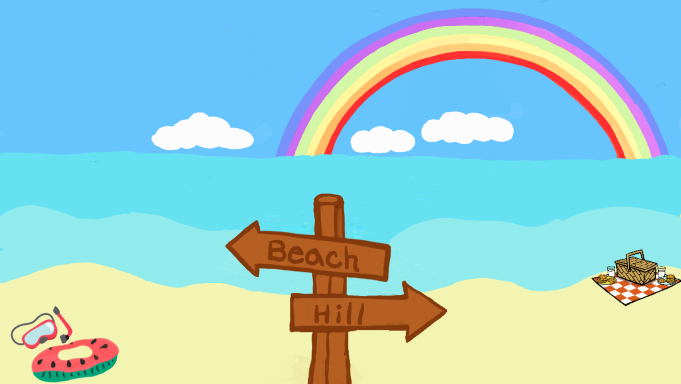
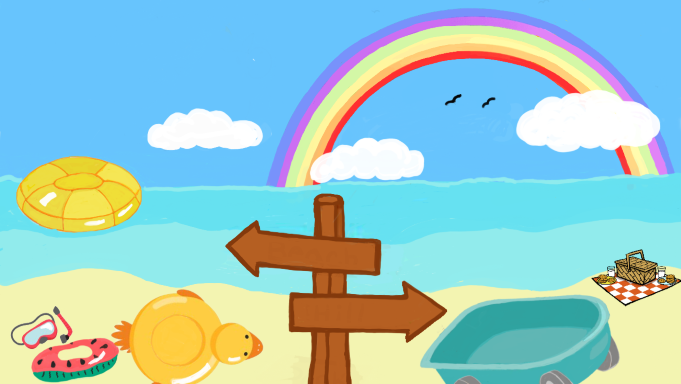
Add Beach & Hill buttons.

diff --git a/src/index.html b/src/index.html
@@ -27,7 +27,7 @@
           <span class="title-word title-word-3">Fun</span>
         </h1>
         <div class="parent">
-          <img class="image1" src="./img/title1.png" />
+          <img class="image1" src="./img/title3.png" />
           <img class="image2" src="./img/rabbit.png" />
           <img class="image3" src="./img/giraffeLeft.png" />
           <img class="image4" src="./img/dragon.png" />
@@ -66,11 +66,11 @@
         <div id="helpRainbow">
           <strong><span class='pop-out' id="party">Rainbow</span</strong>
         </div> 
-        <div id="hillOption">
-          <strong><span class='pop-out' id="hill">Hill</span</strong>
-        </div> 
         <div id="beachOption">
           <strong><span class='pop-out' id="beach">Beach</span</strong>
+        </div> 
+        <div id="hillOption">
+          <strong><span class='pop-out' id="hill">Hill</span</strong>
         </div> 
 
       </div>
@@ -93,7 +93,7 @@
       <h6><strong>Nobody is here yet...  
         <strong></h6>
       </div>
-      <div id="beachEmpty1">
+      <div id="empty">
         <span class='pop-out' id='goBack'>Go Back</span>
       </div>
     </div> 
@@ -104,7 +104,7 @@
       <h6><strong>Nobody is here yet...  
         <strong></h6>
       </div>
-      <div id="hillEmpty1">
+      <div id="empty1">
         <span class='pop-out' id='goBack1'>Go Back</span>
       </div>
     </div> 
@@ -163,10 +163,6 @@
         <span class='pop-out' id="unicornPicnic2">Rainbow</span>
       </div> 
     </div>  
-
-          <!-- <span class='pop-out' id="dragonPicnic2">Spike</span> or <span class='pop-out' id="poxyPicnic2">Poxy</span>  or <span class='pop-out' id="unicornPicnic2">Rainbow</span>to continue your adventure?</strong></h6>
-      </div>
-    </div>   -->
 
     <div id="sunUnicornPicnic" class="container">
       <img class="picture" src="./img/sunUnicornPicnic.png">

diff --git a/src/css/styles.css b/src/css/styles.css
@@ -79,6 +79,18 @@ label{
   color: rgb(211, 46, 175);
 }
 
+#beachOption {
+  margin-top: 3.5%;
+  margin-left: 42%;
+  color:rgb(99, 73, 20);
+}
+
+#hillOption {
+  margin-top: 4.5%;
+  margin-left: 45%;
+  color: rgb(99, 73, 20);
+}
+
 #helpRainbow {
   margin-top: -17%;
   margin-left: 6%;
@@ -100,7 +112,6 @@ label{
   margin-left: 59%; 
 }
 
-
 #dragonPicnic3 {
   margin-top: -6%;
   margin-left: 5%; 
@@ -115,8 +126,6 @@ label{
   margin-top: -4%;
   margin-left: 37%; 
 }
-
-
 
 #tinyDragon1, #poxyDragon, #poxyDragon1, #tinyUnicorn1, #poxyDragonPic1, #tinyDragon2, #dragon1, #end3, #dragon{
   color:rgb(115, 58, 195); 
@@ -324,9 +333,15 @@ img {
 }
 }
 
-.startOverSpike{
+.startOverSpike, #empty {
   margin-top: -8%;
   margin-left: 82%;
+  color: rgb(239, 52, 46);
+}
+
+#empty1 {
+  margin-top: -8%;
+  margin-left: 52%;
   color: rgb(239, 52, 46);
 }
 
@@ -495,19 +510,19 @@ img {
 
 @keyframes anim-popoutin {
   0% {
-    color: #DF8453;
+    color: red;
     transform: scale(0);
     opacity: 0;
     text-shadow: 0 0 0 rgba(0, 0, 0, 0);
   }
   25% {
-    color: #3D8DAE;
+    color: rgb(41, 154, 63);
     transform: scale(2);
     opacity: 1;
     text-shadow: 3px 10px 5px rgba(0, 0, 0, 0.5);
   }
   50% {
-    color: #17494D;
+    color:rgb(87, 27, 72);
     transform: scale(1);
     opacity: 1;
     text-shadow: 1px 0 0 rgba(0, 0, 0, 0);
